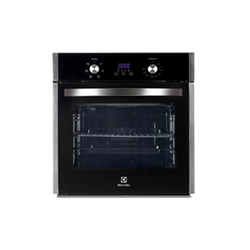
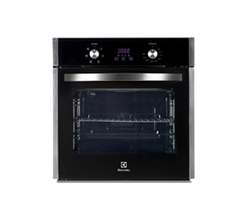
Se arreglaron aspectos visuales de la pagina de categorias

diff --git a/public/css/stylesCategoria.css b/public/css/stylesCategoria.css
@@ -37,6 +37,7 @@
 }
 .productos img{
     width: 100%;
+    max-height: 270px;
 }
 
 .productos article {
@@ -44,6 +45,9 @@
     margin: 10px;
     align-items: center;
     transition: all 0.8s;
+    display: flex;
+    flex-direction: column;
+    justify-content: flex-end;
 }
  
 .productos article:hover {

diff --git a/public/css/stylesDetalleProducto.css b/public/css/stylesDetalleProducto.css
@@ -45,6 +45,9 @@
     padding: 40px;
 
 }
+.article-top-right img{
+    width: 250px;
+}
 
 .article-top-left {
     padding: 20px;
